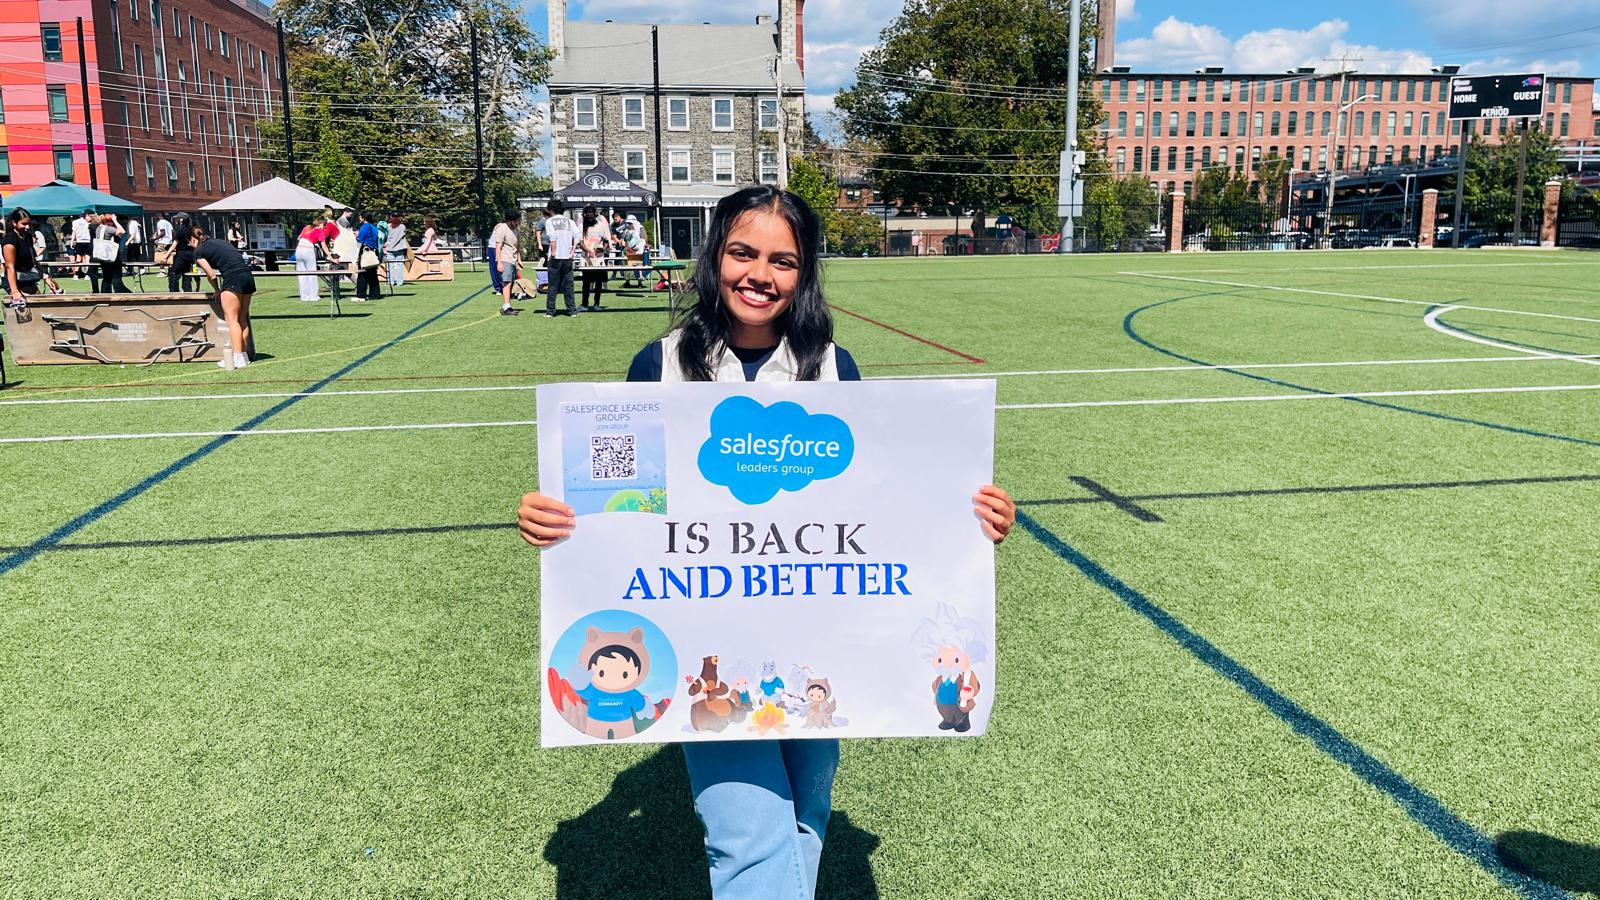
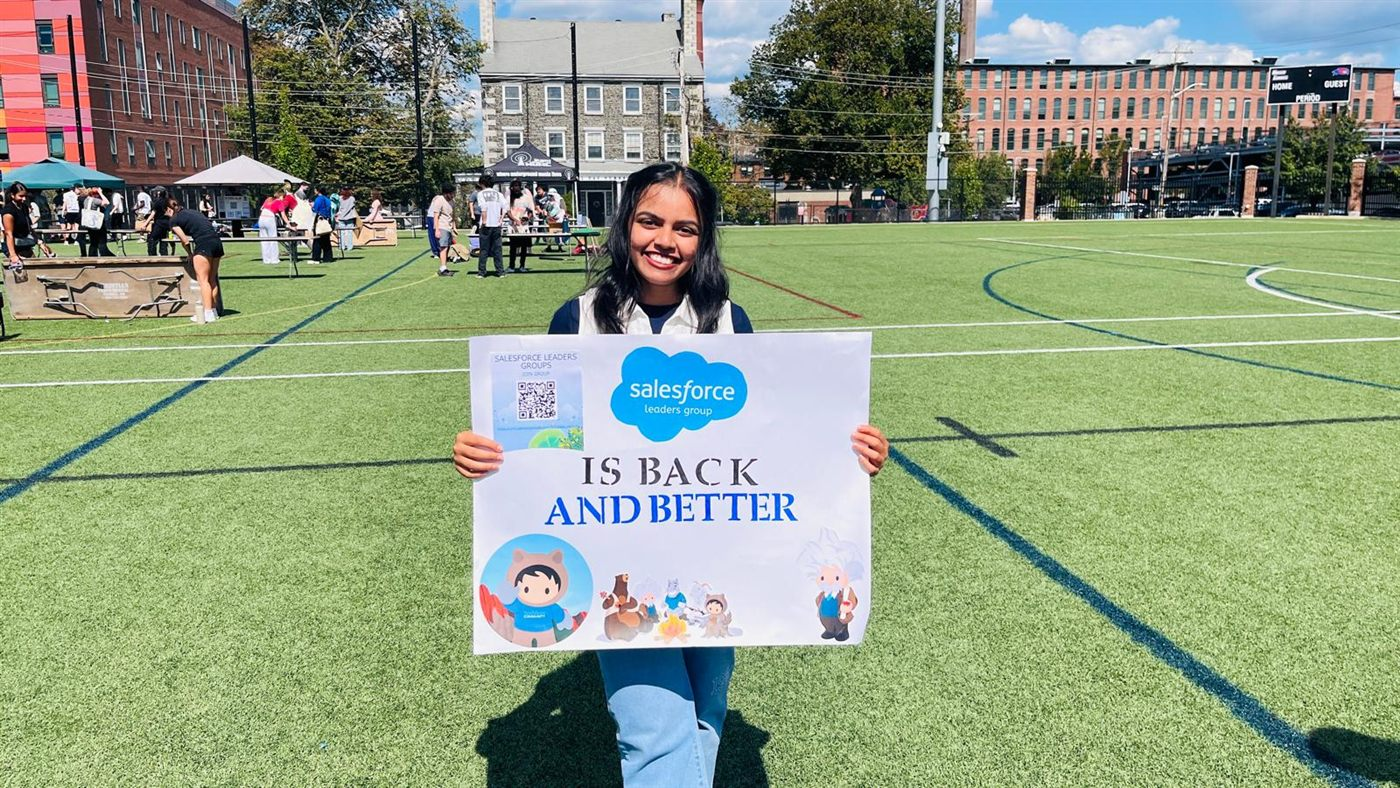
Compress and resize all site images to speed up mobile load times
Resized every image to a sensible max dimension (1400px) and
recompressed. Five graphics that inflated under PNG re-encoding were
converted to JPEG instead, which suits their photo/gradient content
far better (e.g. 2.7MB -> 295KB). Total assets/images went from
~16.8MB to ~5.6MB with no visible quality loss.

Changed region(s): [[0.4607, 0.4873, 0.4914, 0.5178]]

diff --git a/index.html b/index.html
@@ -263,22 +263,22 @@
           <img loading="lazy" decoding="async" class="lightbox-img" src="assets/images/canva/slg-first-event-banner.png" alt="Salesforce Leaders Group 'Is Back to UML' first event announcement banner" />
         </figure>
         <figure class="canva-item reveal">
-          <img loading="lazy" decoding="async" class="lightbox-img" src="assets/images/canva/salesforce-x-eva.png" alt="Salesforce X EVA event flyer featuring guest speaker Aaron Crear" />
+          <img loading="lazy" decoding="async" class="lightbox-img" src="assets/images/canva/salesforce-x-eva.jpg" alt="Salesforce X EVA event flyer featuring guest speaker Aaron Crear" />
         </figure>
         <figure class="canva-item reveal">
           <img loading="lazy" decoding="async" class="lightbox-img" src="assets/images/canva/slg-x-mis-mktg-society.jpeg" alt="SLG x MIS x Marketing Society event flyer featuring guest speaker Steven Serabian" />
         </figure>
         <figure class="canva-item reveal">
-          <img loading="lazy" decoding="async" class="lightbox-img" src="assets/images/canva/prof-kev-show-ep107.png" alt="Professor Kev Show podcast episode 107 promo graphic" />
+          <img loading="lazy" decoding="async" class="lightbox-img" src="assets/images/canva/prof-kev-show-ep107.jpg" alt="Professor Kev Show podcast episode 107 promo graphic" />
         </figure>
         <figure class="canva-item reveal">
-          <img loading="lazy" decoding="async" class="lightbox-img" src="assets/images/canva/prof-kev-show-ep100.png" alt="Professor Kev Show podcast episode 100 promo graphic" />
+          <img loading="lazy" decoding="async" class="lightbox-img" src="assets/images/canva/prof-kev-show-ep100.jpg" alt="Professor Kev Show podcast episode 100 promo graphic" />
         </figure>
         <figure class="canva-item reveal">
           <img loading="lazy" decoding="async" class="lightbox-img" src="assets/images/canva/slg-logo-crest.jpg" alt="Salesforce Leaders Group logo crest for UML Manning School of Business" />
         </figure>
         <figure class="canva-item reveal">
-          <img loading="lazy" decoding="async" class="lightbox-img" src="assets/images/canva/pcc-admission-open.png" alt="Professional Coaching Centre admission open flyer, freelance design work" />
+          <img loading="lazy" decoding="async" class="lightbox-img" src="assets/images/canva/pcc-admission-open.jpg" alt="Professional Coaching Centre admission open flyer, freelance design work" />
         </figure>
         <figure class="canva-item reveal">
           <video controls preload="metadata">
@@ -292,7 +292,7 @@
       <div class="project-grid">
 
         <article class="project-card reveal">
-          <img loading="lazy" decoding="async" src="assets/images/projects/koro-hero.png" alt="KoRo snack products" class="project-thumb-img" />
+          <img loading="lazy" decoding="async" src="assets/images/projects/koro-hero.jpg" alt="KoRo snack products" class="project-thumb-img" />
           <div class="project-body">
             <p class="project-tag">Global Marketing</p>
             <h3>KoRo: Indian Market Entry Strategy</h3>

diff --git a/project-koro.html b/project-koro.html
@@ -9,11 +9,11 @@
   <meta property="og:type" content="article" />
   <meta property="og:title" content="KoRo: Indian Market Entry Strategy | Disha Patel" />
   <meta property="og:description" content="Global marketing case study: a market entry strategy for KoRo's expansion into India, by Disha Patel and team." />
-  <meta property="og:image" content="assets/images/projects/koro-hero.png" />
+  <meta property="og:image" content="assets/images/projects/koro-hero.jpg" />
   <meta name="twitter:card" content="summary_large_image" />
   <meta name="twitter:title" content="KoRo: Indian Market Entry Strategy | Disha Patel" />
   <meta name="twitter:description" content="Global marketing case study: a market entry strategy for KoRo's expansion into India, by Disha Patel and team." />
-  <meta name="twitter:image" content="assets/images/projects/koro-hero.png" />
+  <meta name="twitter:image" content="assets/images/projects/koro-hero.jpg" />
 
   <link rel="preconnect" href="https://fonts.googleapis.com" />
   <link rel="preconnect" href="https://fonts.gstatic.com" crossorigin />
@@ -70,7 +70,7 @@
         industry and consumer analysis to a full 4Ps marketing mix recommendation.
       </p>
 
-      <img src="assets/images/projects/koro-hero.png" alt="KoRo snack products including protein bars and protein balls" class="post-hero-image" style="background:none;" />
+      <img src="assets/images/projects/koro-hero.jpg" alt="KoRo snack products including protein bars and protein balls" class="post-hero-image" style="background:none;" />
 
       <div class="post-content">
         <p class="reveal">
